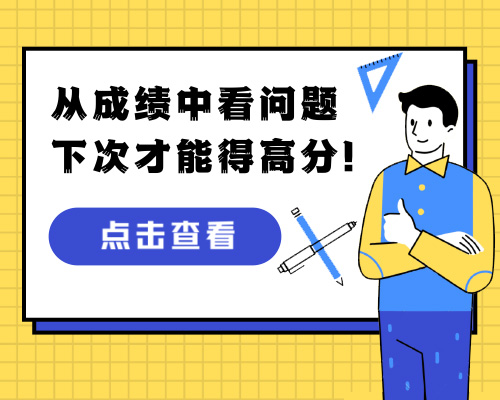
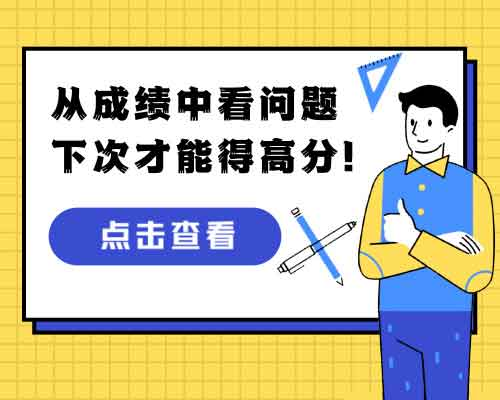
图片压缩

diff --git a/app.js b/app.js
@@ -23,6 +23,11 @@ App({
     this.Login();
     this.getSystemInfo();
   },
+  onShow: function(){
+    wx.onMemoryWarning(function () {
+      console.log('onMemoryWarningReceive')
+    })
+  },
   getSystemInfo: function(){
     wx.getSystemInfo({
       success: (res) => {
